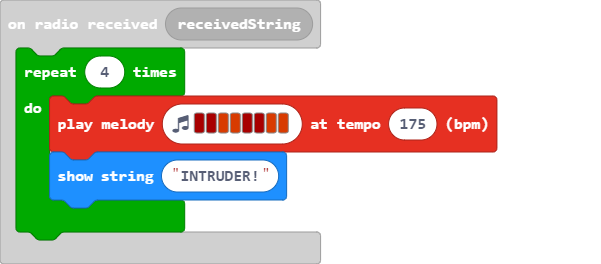
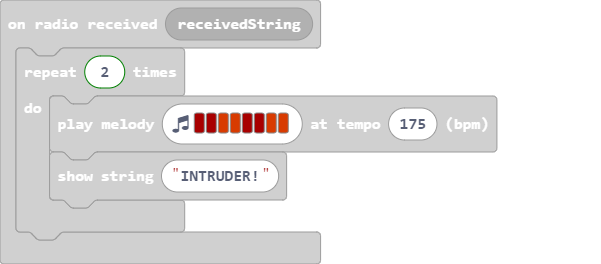
Update main.blocks, main.ts

Changed region(s): [[0.0, 0.1515, 0.8386, 0.9394]]

diff --git a/main.ts b/main.ts
@@ -3,7 +3,7 @@ input.onButtonPressed(Button.A, function () {
     control.reset()
 })
 radio.onReceivedString(function (receivedString) {
-    for (let index = 0; index < 4; index++) {
+    for (let index = 0; index < 2; index++) {
         music.playMelody("C5 C5 B B C5 C5 B B ", 175)
         basic.showString("INTRUDER!")
     }
